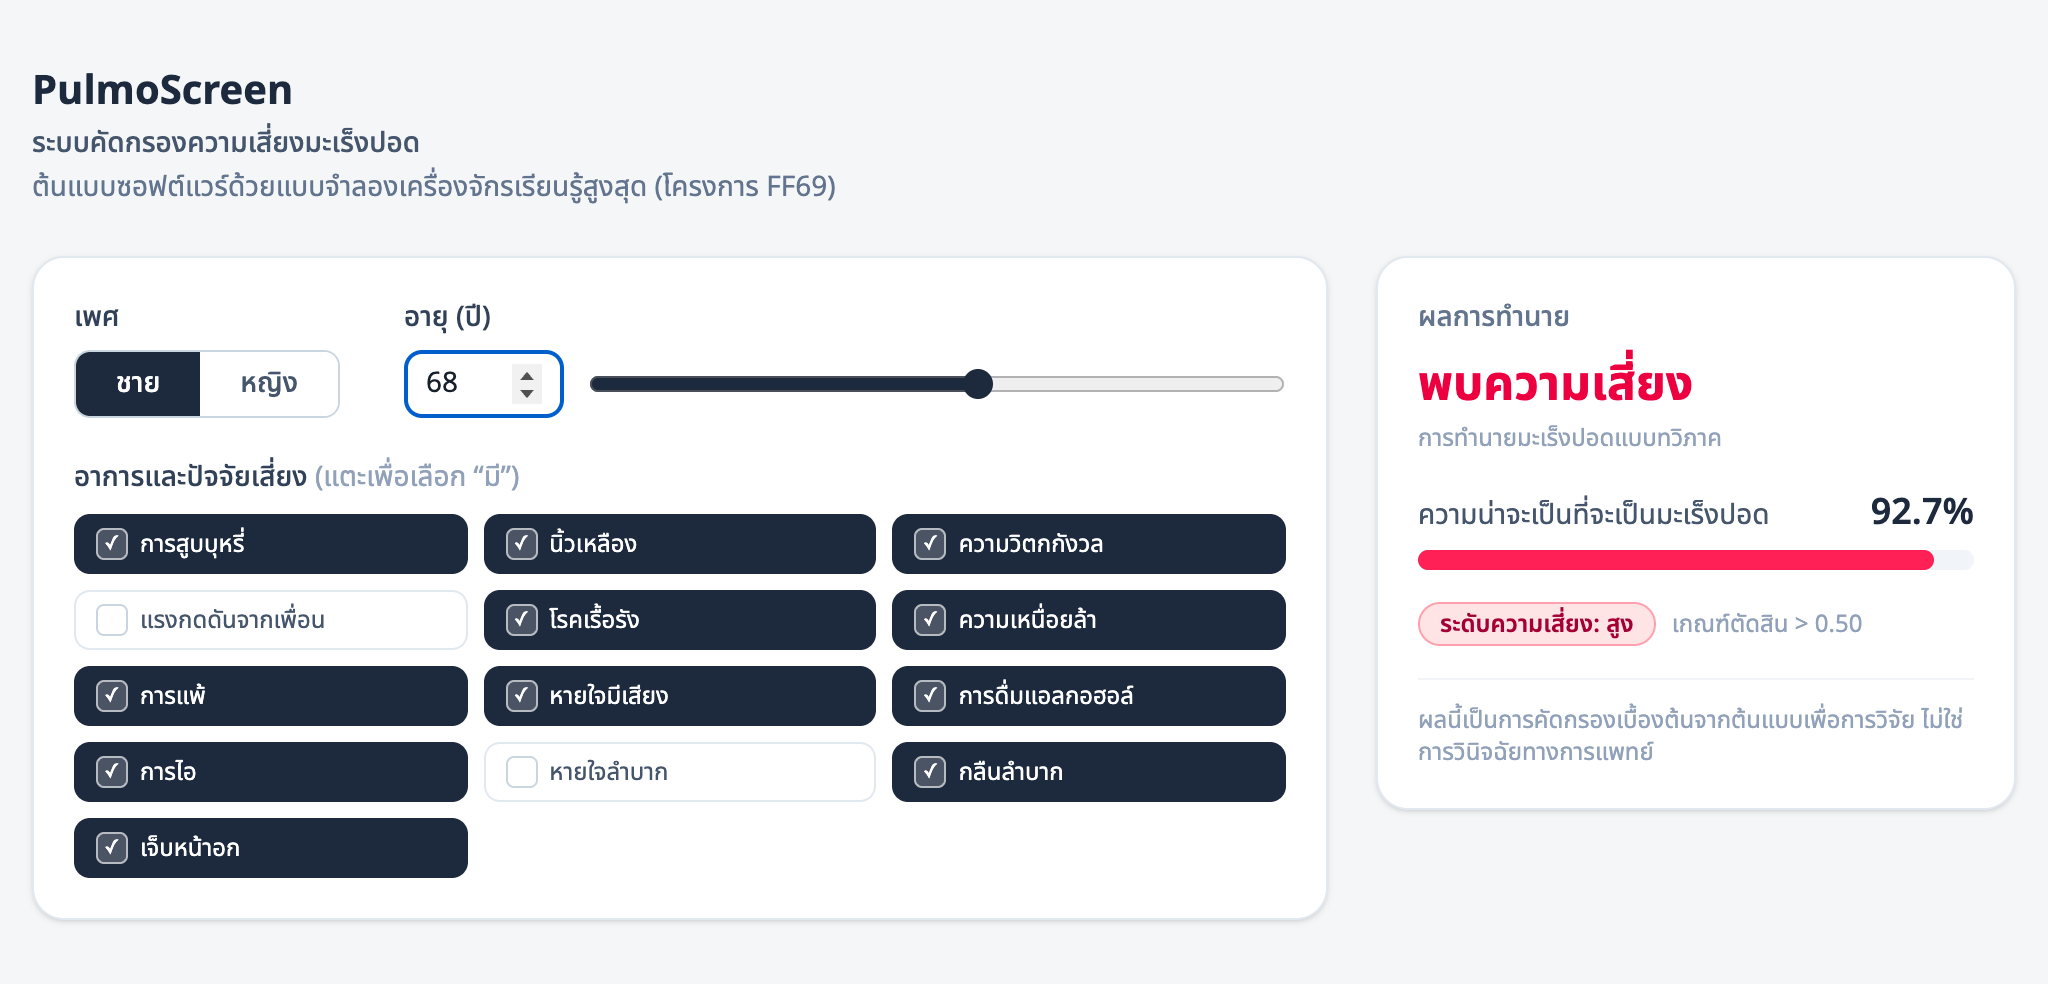
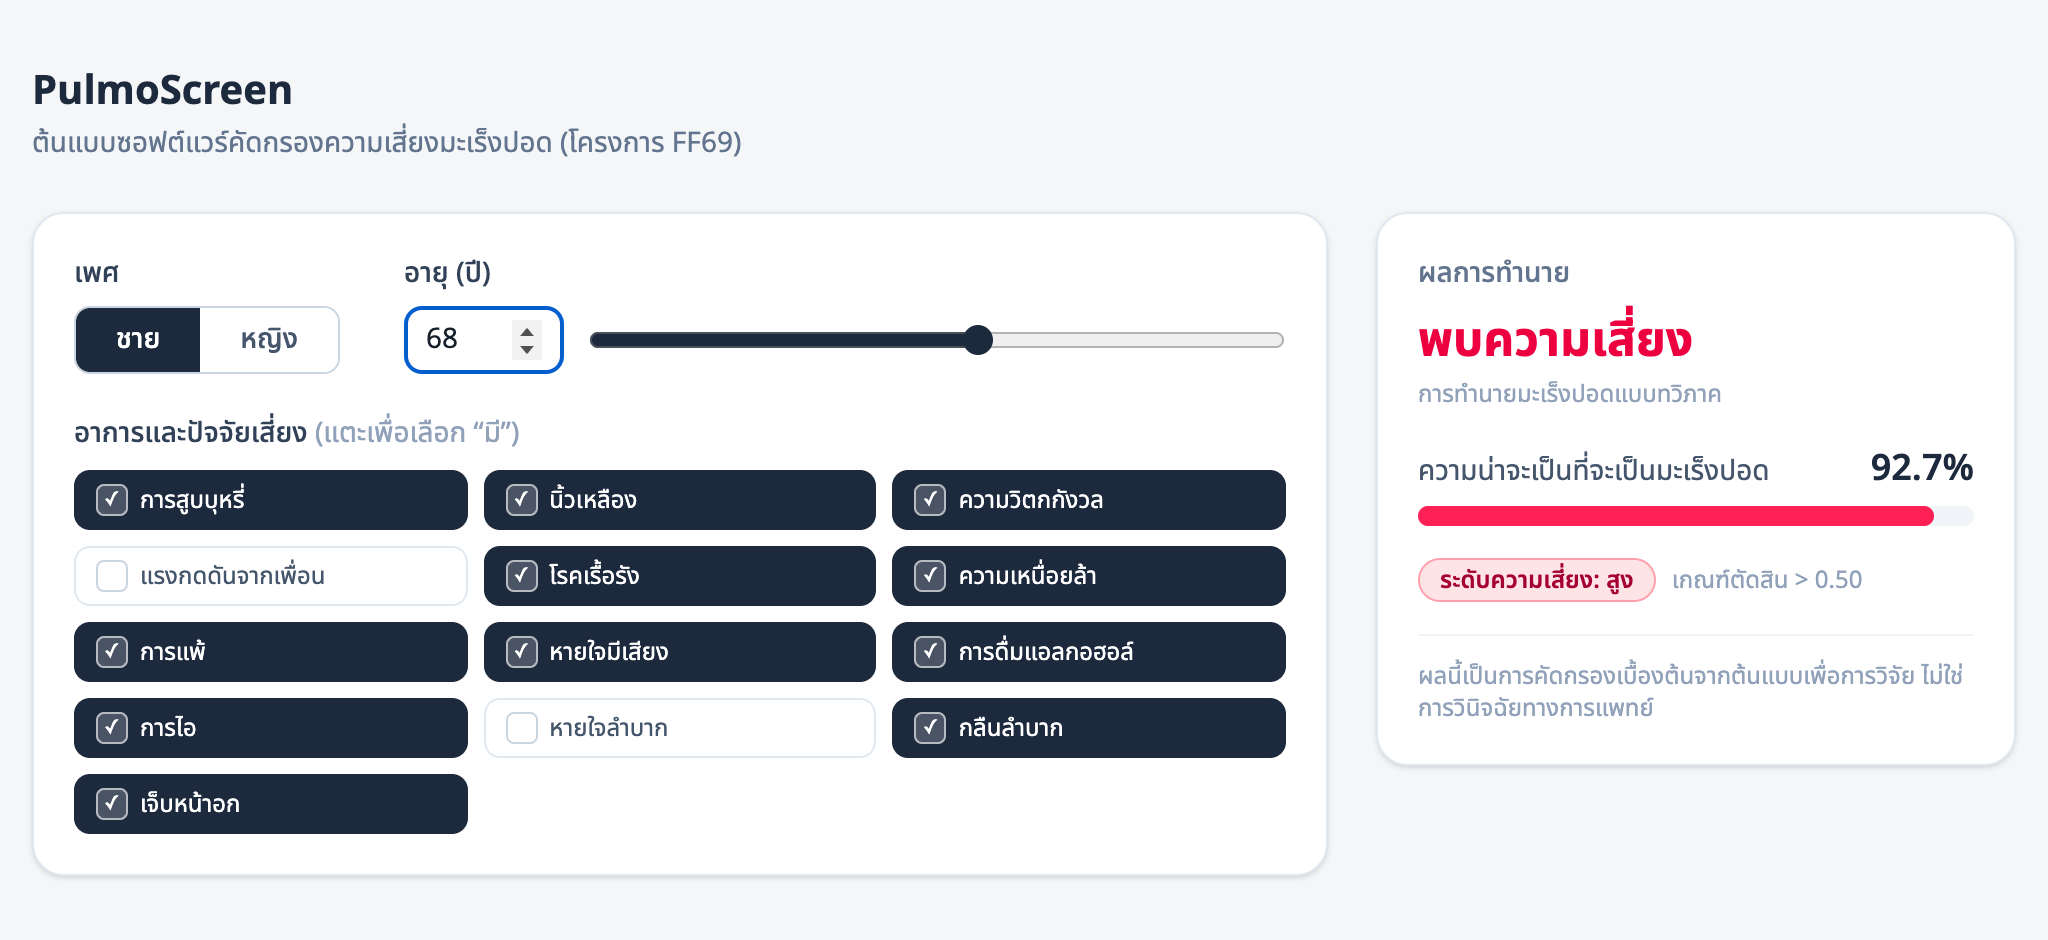
webapp: two-line header (PulmoScreen + single tagline)
Drop the middle descriptive line; tagline is now
'ต้นแบบซอฟต์แวร์คัดกรองความเสี่ยงมะเร็งปอด (โครงการ FF69)'. Screenshot refreshed.

diff --git a/web/src/app/page.tsx b/web/src/app/page.tsx
@@ -63,11 +63,8 @@ export default function Home() {
     <main className="mx-auto max-w-5xl px-4 py-8">
       <header className="mb-6">
         <h1 className="text-xl font-bold text-slate-800">PulmoScreen</h1>
-        <p className="mt-0.5 text-sm font-medium text-slate-600">
-          ระบบคัดกรองความเสี่ยงมะเร็งปอด
-        </p>
         <p className="mt-0.5 text-sm text-slate-500">
-          ต้นแบบซอฟต์แวร์ด้วยแบบจำลองเครื่องจักรเรียนรู้สูงสุด (โครงการ FF69)
+          ต้นแบบซอฟต์แวร์คัดกรองความเสี่ยงมะเร็งปอด (โครงการ FF69)
         </p>
       </header>
 
